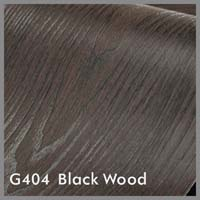
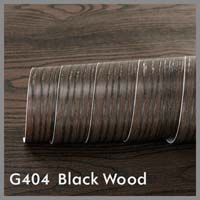
v 0.9.6

diff --git a/index.html b/index.html
@@ -450,7 +450,159 @@
 			},
 			{
 				"name": 'Crystall & Sandblast',
-				"sub": [],
+				"description": 
+					'<div data-tooltip="<table><tr><th>Количество</th><th>Стоимость</th></tr><tr><td>от 1 до 10 метров</td><td>595 руб./м.п.</td></tr><tr><td>свыше 10 метров</td><td>445 руб./м.п.</td></tr><tr><td>кратно рулону</td><td>295 руб./м.п.</td></tr></table>">\
+						<div class="films-description__price">от 240* RUB за 1м<sup>2</sup></div>\
+						<div class="films-description__price-note">* стоимость указана при приобретении рулона</div>\
+					</div>\
+					<div class="films-description__text">\
+						Самок леящаяся виниловая пленка, с ярко выраженным декоративным эффектом.\
+					</div>\
+					<div class="films-description__text">\
+						Пленка предназначен для дизайнерского оформления интерьеров, сплошного либо частичного нанесения на ровные поверхности.\
+					</div>\
+					<div class="films-description__text"><b>Характеристики / Свойства:</b></div>\
+					<ul class="films-description__properties">\
+						<li class="films-description__properties-item icon-lens"><b>Частично - прозрачная</b> (размытие 10%)</li>\
+						<li class="films-description__properties-item icon-plotter-2">\
+							Рекомендована для плоттерной резки<br>\
+							Подходит для экосольвентной печати\
+						</li>\
+					</ul>\
+					<div data-tooltip="Пленка поставляется с полиакрилатным клеевым слоем на основе растворителя, постоянной фиксации. <br><br>Подложка - Силиконизированная бумага (120g) <br><br>Срок эксплуатации: от 3 лет (внутри помещений), до 2 лет (наружной эксплуатации)">\
+						<ul class="properties-border">\
+							<li class="properties-border__item">Размер рулона: <span class="properties-border__val">1220mm х 50m</span></li>\
+							<li class="properties-border__item">Основа: <span class="properties-border__val">PVC 110µm + glue 20µm</span></li>\
+							<li class="properties-border__item">Подложка: <span class="properties-border__val">SiliconPaper 120g/m<sup>2</sup></span></li>\
+						</ul>\
+					</div>\
+					<ul class="films-description__properties">\
+						<li class="films-description__properties-item icon-tovar-min" data-tooltip="Продажа осуществляется только погонными метрами, в любом требуемом количестве (при заказе более 1 п.м.)<br>Минимальный заказ – 1 погонный метр.">Продается только погонными метрами. <br>Минимальное количество - 1 п.м.</li>\
+					</ul>',
+				"sub": [
+					{"id": "F000", fullUrl: 'img/F000-full.jpg', prevUrl: 'img/F000-m.jpg', galleryPrev: [['img/sandblast/F000_1.jpg', 'img/sandblast/F000_1_m.jpg'], ['img/sandblast/F000_2.jpg', 'img/sandblast/F000_2_m.jpg'], ['img/sandblast/F000_3.jpg', 'img/sandblast/F000_3_m.jpg']], "name": 'F000  SilveryGrey',},
+					{"id": "F100", fullUrl: 'img/F100-full.jpg', prevUrl: 'img/F100-m.jpg', galleryPrev: [['img/sandblast/F100_1.jpg', 'img/sandblast/F100_1_m.jpg'], ['img/sandblast/F100_2.jpg', 'img/sandblast/F100_2_m.jpg'], ['img/sandblast/F100_3.jpg', 'img/sandblast/F100_3_m.jpg']], "name": 'F100  Crystall Frost',},
+					{"id": "F300", fullUrl: 'img/F300-full.jpg', prevUrl: 'img/F300-m.jpg', galleryPrev: [['img/sandblast/F300_1.jpg', 'img/sandblast/F300_1_m.jpg'], ['img/sandblast/F300_2.jpg', 'img/sandblast/F300_2_m.jpg'], ['img/sandblast/F300_3.jpg', 'img/sandblast/F300_3_m.jpg']], "name": 'F300  Crystall White',
+						description: '<div data-tooltip="<table><tr><th>Количество</th><th>Стоимость</th></tr><tr><td>от 1 до 10 метров</td><td>595 руб./м.п.</td></tr><tr><td>свыше 10 метров</td><td>445 руб./м.п.</td></tr><tr><td>кратно рулону</td><td>295 руб./м.п.</td></tr></table>">\
+											<div class="films-description__price">от 240* RUB за 1м<sup>2</sup></div>\
+											<div class="films-description__price-note">* стоимость указана при приобретении рулона</div>\
+										</div>\
+										<div class="films-description__text">\
+											Самок леящаяся виниловая пленка, с ярко выраженным декоративным эффектом.\
+										</div>\
+										<div class="films-description__text">\
+											Пленка предназначен для дизайнерского оформления интерьеров, сплошного либо частичного нанесения на ровные поверхности.\
+										</div>\
+										<div class="films-description__text"><b>Характеристики / Свойства:</b></div>\
+										<ul class="films-description__properties">\
+											<li class="films-description__properties-item icon-lens"><b>Частично - прозрачная</b> (размытие 30%)</li>\
+											<li class="films-description__properties-item icon-plotter-2">\
+												Рекомендована для плоттерной резки<br>\
+												Подходит для экосольвентной печати\
+											</li>\
+										</ul>\
+										<div data-tooltip="Пленка поставляется с полиакрилатным клеевым слоем на основе растворителя, постоянной фиксации. <br><br>Подложка - Силиконизированная бумага (120g) <br><br>Срок эксплуатации: от 3 лет (внутри помещений), до 2 лет (наружной эксплуатации)">\
+											<ul class="properties-border">\
+												<li class="properties-border__item">Размер рулона: <span class="properties-border__val">1220mm х 50m</span></li>\
+												<li class="properties-border__item">Основа: <span class="properties-border__val">PVC 110µm + glue 20µm</span></li>\
+												<li class="properties-border__item">Подложка: <span class="properties-border__val">SiliconPaper 120g/m<sup>2</sup></span></li>\
+											</ul>\
+										</div>\
+										<ul class="films-description__properties">\
+											<li class="films-description__properties-item icon-tovar-min" data-tooltip="Продажа осуществляется только погонными метрами, в любом требуемом количестве (при заказе более 1 п.м.)<br>Минимальный заказ – 1 погонный метр.">Продается только погонными метрами. <br>Минимальное количество - 1 п.м.</li>\
+										</ul>',
+					},
+					{"id": "G050", fullUrl: 'img/G050-full.jpg', prevUrl: 'img/G050-m.jpg', galleryPrev: [['img/sandblast/G050_1.jpg', 'img/sandblast/G050_1_m.jpg'], ['img/sandblast/G050_2.jpg', 'img/sandblast/G050_2_m.jpg'], ['img/sandblast/G050_3.jpg', 'img/sandblast/G050_3_m.jpg']], "name": 'G050  Grey Metallic', 
+						description: '<div data-tooltip="<table><tr><th>Количество</th><th>Стоимость</th></tr><tr><td>от 1 до 10 метров</td><td>395 руб./м.п.</td></tr><tr><td>свыше 10 метров</td><td>295 руб./м.п.</td></tr><tr><td>кратно рулону</td><td>195 руб./м.п.</td></tr></table>">\
+											<div class="films-description__price">от 160* RUB за 1м<sup>2</sup></div>\
+											<div class="films-description__price-note">* стоимость указана при приобретении рулона</div>\
+										</div>\
+										<div class="films-description__text">\
+											Самок леящаяся виниловая пленка, с ярко выраженным декоративным эффектом.\
+										</div>\
+										<div class="films-description__text">\
+											Пленка предназначен для дизайнерского оформления интерьеров, сплошного либо частичного нанесения на ровные поверхности.\
+										</div>\
+										<div class="films-description__text"><b>Характеристики / Свойства:</b></div>\
+										<ul class="films-description__properties">\
+											<li class="films-description__properties-item icon-lens"><b>Частично - прозрачная</b> (размытие 10%)</li>\
+											<li class="films-description__properties-item icon-plotter-2">\
+												Рекомендована для плоттерной резки<br>\
+												Подходит для экосольвентной печати\
+											</li>\
+										</ul>\
+										<div data-tooltip="Пленка поставляется с полиакрилатным клеевым слоем на основе растворителя, постоянной фиксации. <br><br>Подложка - Силиконизированная бумага (120g) <br><br>Срок эксплуатации: от 3 лет (внутри помещений), до 2 лет (наружной эксплуатации)">\
+											<ul class="properties-border">\
+												<li class="properties-border__item">Размер рулона: <span class="properties-border__val">1220mm х 50m</span></li>\
+												<li class="properties-border__item">Основа: <span class="properties-border__val">PVC 110µm + glue 20µm</span></li>\
+												<li class="properties-border__item">Подложка: <span class="properties-border__val">SiliconPaper 120g/m<sup>2</sup></span></li>\
+											</ul>\
+										</div>\
+										<ul class="films-description__properties">\
+											<li class="films-description__properties-item icon-tovar-min" data-tooltip="Продажа осуществляется только погонными метрами, в любом требуемом количестве (при заказе более 1 п.м.)<br>Минимальный заказ – 1 погонный метр.">Продается только погонными метрами. <br>Минимальное количество - 1 п.м.</li>\
+										</ul>',
+					},
+					{"id": "M000", fullUrl: 'img/M000-full.jpg', prevUrl: 'img/M000-m.jpg', galleryPrev: [['img/sandblast/M000_1.jpg', 'img/sandblast/M000_1_m.jpg'], ['img/sandblast/M000_2.jpg', 'img/sandblast/M000_2_m.jpg'], ['img/sandblast/M000_3.jpg', 'img/sandblast/M000_3_m.jpg']], "name": 'M000  Frosted Sand', 
+						description: '<div data-tooltip="<table><tr><th>Количество</th><th>Стоимость</th></tr><tr><td>от 1 до 10 метров</td><td>395 руб./м.п.</td></tr><tr><td>свыше 10 метров</td><td>295 руб./м.п.</td></tr><tr><td>кратно рулону</td><td>195 руб./м.п.</td></tr></table>">\
+											<div class="films-description__price">от 160* RUB за 1м<sup>2</sup></div>\
+											<div class="films-description__price-note">* стоимость указана при приобретении рулона</div>\
+										</div>\
+										<div class="films-description__text">\
+											Самок леящаяся виниловая пленка, с ярко выраженным декоративным эффектом.\
+										</div>\
+										<div class="films-description__text">\
+											Пленка предназначен для дизайнерского оформления интерьеров, сплошного либо частичного нанесения на ровные поверхности.\
+										</div>\
+										<div class="films-description__text"><b>Характеристики / Свойства:</b></div>\
+										<ul class="films-description__properties">\
+											<li class="films-description__properties-item icon-lens"><b>Частично - прозрачная</b> (размытие 10%)</li>\
+											<li class="films-description__properties-item icon-plotter-2">\
+												Рекомендована для плоттерной резки<br>\
+												Подходит для экосольвентной печати\
+											</li>\
+										</ul>\
+										<div data-tooltip="Пленка поставляется с полиакрилатным клеевым слоем на основе растворителя, постоянной фиксации. <br><br>Подложка - Силиконизированная бумага (120g) <br><br>Срок эксплуатации: от 3 лет (внутри помещений), до 2 лет (наружной эксплуатации)">\
+											<ul class="properties-border">\
+												<li class="properties-border__item">Размер рулона: <span class="properties-border__val">1220mm х 50m</span></li>\
+												<li class="properties-border__item">Основа: <span class="properties-border__val">PVC 110µm + glue 20µm</span></li>\
+												<li class="properties-border__item">Подложка: <span class="properties-border__val">SiliconPaper 120g/m<sup>2</sup></span></li>\
+											</ul>\
+										</div>\
+										<ul class="films-description__properties">\
+											<li class="films-description__properties-item icon-tovar-min" data-tooltip="Продажа осуществляется только погонными метрами, в любом требуемом количестве (при заказе более 1 п.м.)<br>Минимальный заказ – 1 погонный метр.">Продается только погонными метрами. <br>Минимальное количество - 1 п.м.</li>\
+										</ul>',
+					},
+					{"id": "M100", fullUrl: 'img/M100-full.jpg', prevUrl: 'img/M100-m.jpg', galleryPrev: [['img/sandblast/M100_1.jpg', 'img/sandblast/M100_1_m.jpg'], ['img/sandblast/M100_2.jpg', 'img/sandblast/M100_2_m.jpg'], ['img/sandblast/M100_3.jpg', 'img/sandblast/M100_3_m.jpg']], "name": 'M100  Frosted White', 
+						description: '<div data-tooltip="<table><tr><th>Количество</th><th>Стоимость</th></tr><tr><td>от 1 до 10 метров</td><td>395 руб./м.п.</td></tr><tr><td>свыше 10 метров</td><td>295 руб./м.п.</td></tr><tr><td>кратно рулону</td><td>195 руб./м.п.</td></tr></table>">\
+											<div class="films-description__price">от 160* RUB за 1м<sup>2</sup></div>\
+											<div class="films-description__price-note">* стоимость указана при приобретении рулона</div>\
+										</div>\
+										<div class="films-description__text">\
+											Самок леящаяся виниловая пленка, с ярко выраженным декоративным эффектом.\
+										</div>\
+										<div class="films-description__text">\
+											Пленка предназначен для дизайнерского оформления интерьеров, сплошного либо частичного нанесения на ровные поверхности.\
+										</div>\
+										<div class="films-description__text"><b>Характеристики / Свойства:</b></div>\
+										<ul class="films-description__properties">\
+											<li class="films-description__properties-item icon-lens"><b>Частично - прозрачная</b> (размытие 40%)</li>\
+											<li class="films-description__properties-item icon-plotter-2">\
+												Рекомендована для плоттерной резки<br>\
+												Подходит для экосольвентной печати\
+											</li>\
+										</ul>\
+										<div data-tooltip="Пленка поставляется с полиакрилатным клеевым слоем на основе растворителя, постоянной фиксации. <br><br>Подложка - Силиконизированная бумага (120g) <br><br>Срок эксплуатации: от 3 лет (внутри помещений), до 2 лет (наружной эксплуатации)">\
+											<ul class="properties-border">\
+												<li class="properties-border__item">Размер рулона: <span class="properties-border__val">1220mm х 50m</span></li>\
+												<li class="properties-border__item">Основа: <span class="properties-border__val">PVC 110µm + glue 20µm</span></li>\
+												<li class="properties-border__item">Подложка: <span class="properties-border__val">SiliconPaper 120g/m<sup>2</sup></span></li>\
+											</ul>\
+										</div>\
+										<ul class="films-description__properties">\
+											<li class="films-description__properties-item icon-tovar-min" data-tooltip="Продажа осуществляется только погонными метрами, в любом требуемом количестве (при заказе более 1 п.м.)<br>Минимальный заказ – 1 погонный метр.">Продается только погонными метрами. <br>Минимальное количество - 1 п.м.</li>\
+										</ul>',
+					},
+				]
 			},
 			{
 				"name": 'WoodGrain',
@@ -484,11 +636,11 @@
 						<li class="films-description__properties-item icon-tovar-min" data-tooltip="Продажа осуществляется только погонными метрами, в любом требуемом количестве (при заказе более 1 п.м.)<br>Минимальный заказ – 1 погонный метр.">Продается только погонными метрами. <br>Минимальное количество - 1 п.м.</li>\
 					</ul>',
 				"sub": [
-					{"id": "G402", fullUrl: 'img/G402-full.jpg', prevUrl: 'img/G402-m.jpg', galleryPrev: [['img/woodgrain/G402.jpg', 'img/woodgrain/G402_m.jpg'], ['img/woodgrain/G402_2.jpg', 'img/woodgrain/G402_2_m.jpg'], ['img/woodgrain/G402_3.jpg', 'img/woodgrain/G402_3_m.jpg'], ['img/woodgrain/G402_4.jpg', 'img/woodgrain/G402_4_m.jpg']], "name": 'G402 RoseWood',},
-					{"id": "G403", fullUrl: 'img/G403-full.jpg', prevUrl: 'img/G403-m.jpg', galleryPrev: [['img/woodgrain/G403.jpg', 'img/woodgrain/G403_m.jpg'], ['img/woodgrain/G403_2.jpg', 'img/woodgrain/G403_2_m.jpg']], "name": 'G403 Red Sandal',},
-					{"id": "G404", fullUrl: 'img/G404-full.jpg', prevUrl: 'img/G404-m.jpg', galleryPrev: [['img/woodgrain/G404.jpg', 'img/woodgrain/G404_m.jpg'], ['img/woodgrain/G404_2.jpg', 'img/woodgrain/G404_2_m.jpg']], "name": 'G404 Black Wood',},
-					{"id": "G405", fullUrl: 'img/G405-full.jpg', prevUrl: 'img/G405-m.jpg', galleryPrev: [['img/woodgrain/G405.jpg', 'img/woodgrain/G405_m.jpg'], ['img/woodgrain/G405_2.jpg', 'img/woodgrain/G405_2_m.jpg']], "name": 'G405 Silver Wood',},
-					{"id": "G406", fullUrl: 'img/G406-full.jpg', prevUrl: 'img/G406-m.jpg', galleryPrev: [['img/woodgrain/G406.jpg', 'img/woodgrain/G406_m.jpg'], ['img/woodgrain/G406_2.jpg', 'img/woodgrain/G406_2_m.jpg']], "name": 'G406 Gold Wood',},
+					{"id": "G402", fullUrl: 'img/G402-full.jpg', prevUrl: 'img/G402-m.jpg', galleryPrev: [['img/woodgrain/G402_1.jpg', 'img/woodgrain/G402_1_m.jpg'], ['img/woodgrain/G402_2.jpg', 'img/woodgrain/G402_2_m.jpg'], ['img/woodgrain/G402_3.jpg', 'img/woodgrain/G402_3_m.jpg']], "name": 'G402 RoseWood',},
+					{"id": "G403", fullUrl: 'img/G403-full.jpg', prevUrl: 'img/G403-m.jpg', galleryPrev: [['img/woodgrain/G403_1.jpg', 'img/woodgrain/G403_1_m.jpg'], ['img/woodgrain/G403_2.jpg', 'img/woodgrain/G403_2_m.jpg'], ['img/woodgrain/G403_3.jpg', 'img/woodgrain/G403_3_m.jpg']], "name": 'G403 Red Sandal',},
+					{"id": "G404", fullUrl: 'img/G404-full.jpg', prevUrl: 'img/G404-m.jpg', galleryPrev: [['img/woodgrain/G404_1.jpg', 'img/woodgrain/G404_1_m.jpg'], ['img/woodgrain/G404_2.jpg', 'img/woodgrain/G404_2_m.jpg'], ['img/woodgrain/G404_3.jpg', 'img/woodgrain/G404_3_m.jpg']], "name": 'G404 Black Wood',},
+					{"id": "G405", fullUrl: 'img/G405-full.jpg', prevUrl: 'img/G405-m.jpg', galleryPrev: [['img/woodgrain/G405_1.jpg', 'img/woodgrain/G405_1_m.jpg'], ['img/woodgrain/G405_2.jpg', 'img/woodgrain/G405_2_m.jpg'], ['img/woodgrain/G405_3.jpg', 'img/woodgrain/G405_3_m.jpg']], "name": 'G405 Silver Wood',},
+					{"id": "G406", fullUrl: 'img/G406-full.jpg', prevUrl: 'img/G406-m.jpg', galleryPrev: [['img/woodgrain/G406_1.jpg', 'img/woodgrain/G406_1_m.jpg'], ['img/woodgrain/G406_2.jpg', 'img/woodgrain/G406_2_m.jpg'], ['img/woodgrain/G406_3.jpg', 'img/woodgrain/G406_3_m.jpg']], "name": 'G406 Gold Wood',},
 				]
 			},
 			
